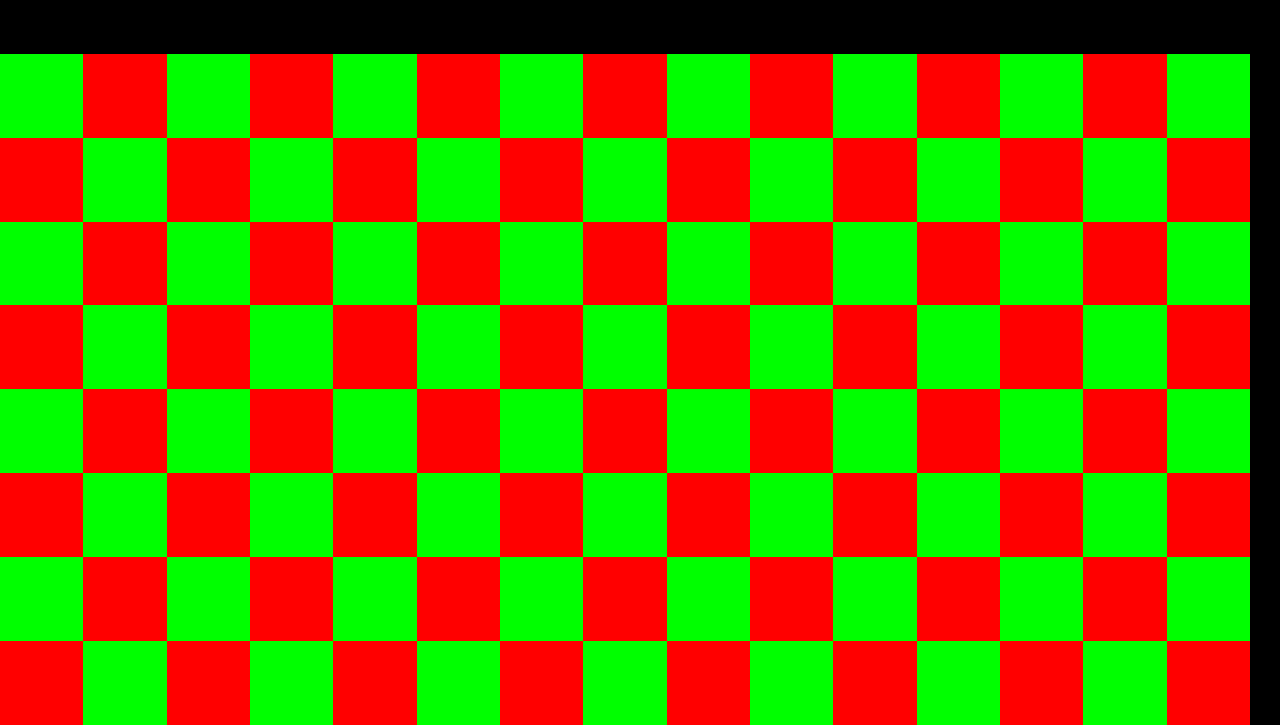
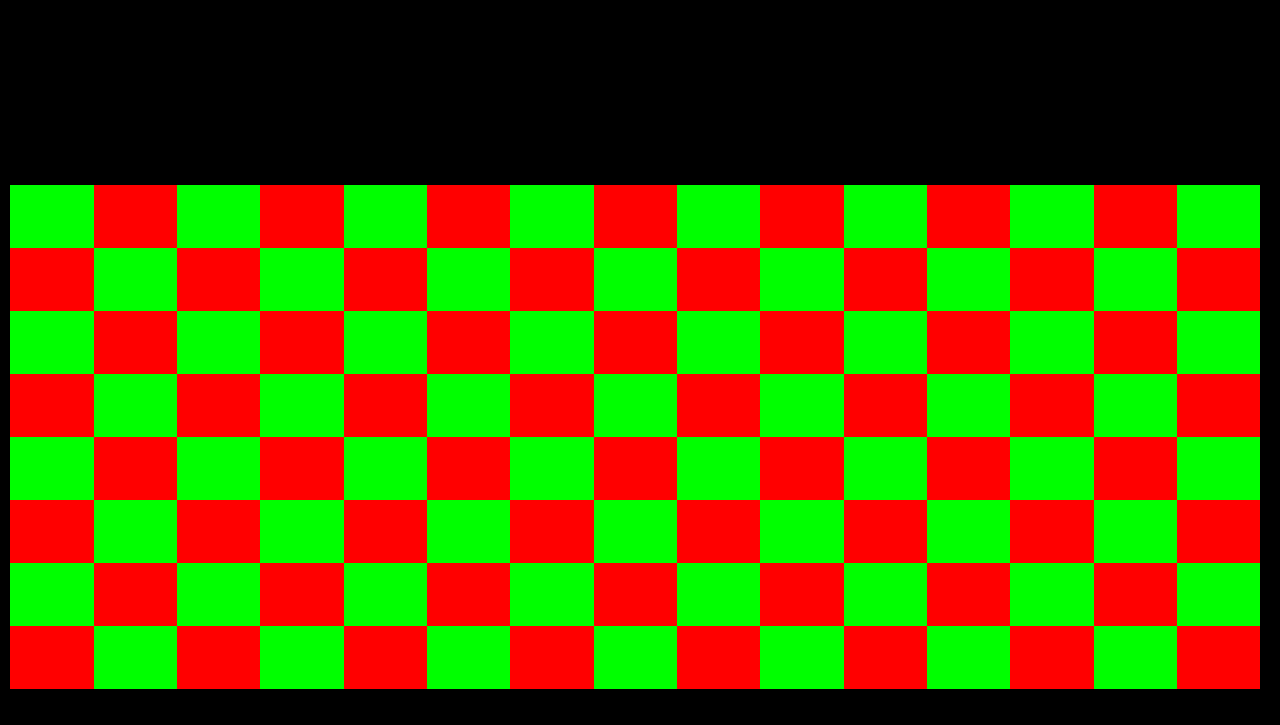
anna did magic

diff --git a/Assets/create120Cameras.cs b/Assets/create120Cameras.cs
@@ -11,6 +11,8 @@ public class create120Cameras : MonoBehaviour {
 	public int numOfCamYaxis;
 	public Vector2 screenSize;
 	public Vector2 imageSize;
+	public float errorX;
+	public float errorY;
 	public Vector2 ICD;
 	public Vector2 screenPositionOffset;
 	private int cameraIndexName = 1;
@@ -26,8 +28,8 @@ public class create120Cameras : MonoBehaviour {
 	IEnumerator MyStart () {
 		 yield return new WaitForSeconds(0);
 		cameraList = new List<GameObject>();
-		subImageWidthX = (imageSize.x/screenSize.x)/numOfCamXaxis;
-		subImageWidthY = (imageSize.y/screenSize.y)/numOfCamYaxis;
+		subImageWidthX = ((imageSize.x/screenSize.x)/numOfCamXaxis) * (errorX/100f);
+		subImageWidthY = ((imageSize.y/screenSize.y)/numOfCamYaxis) * (errorY/100f);
 		print(subImageWidthY);
 		for(int i = 0; i < numOfCamYaxis; i ++){
 			for(int j = 0; j < numOfCamXaxis; j ++){
@@ -58,6 +60,8 @@ public class create120Cameras : MonoBehaviour {
 		if(updateCameras){
 			updateCameras = false;
 			cameraIndexName = 0;
+			subImageWidthX = ((imageSize.x/screenSize.x)/numOfCamXaxis) * (errorX/100f);
+			subImageWidthY = ((imageSize.y/screenSize.y)/numOfCamYaxis) * (errorY/100f);
 			for(int i = 0; i < numOfCamYaxis; i ++){
 				for(int j = 0; j < numOfCamXaxis; j ++){
 

diff --git a/Assets/interpolationCameraPrefab/modeSvitcherForCalibration.cs b/Assets/interpolationCameraPrefab/modeSvitcherForCalibration.cs
@@ -1,0 +1,32 @@
+using UnityEngine;
+using System.Collections;
+
+public class modeSvitcherForCalibration : MonoBehaviour {
+
+	public GameObject myInterpolation;
+	public GameObject myVirtual;
+	private bool myState = true;
+	void ActivateInterpolation(bool state){
+		if(state){
+			myInterpolation.SetActive(false);
+			myVirtual.SetActive(true);
+		}else{
+			myInterpolation.SetActive(true);
+			myVirtual.SetActive(false);
+		}
+	}
+	// Use this for initialization
+	void Start () {
+		ActivateInterpolation(myState);
+	}
+
+	// Update is called once per frame
+	void Update () {
+		if (Input.GetKeyUp("space")){
+			myState = !myState;
+			ActivateInterpolation(myState);
+
+		}
+
+	}
+}
